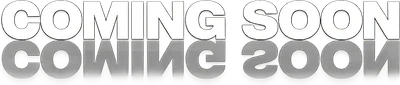
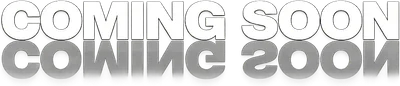
Add Downloads page and R2 download function
Introduce a secure Downloads feature: add downloads data (src/data/downloads.ts), UI component (src/components/portfolio/Downloads.tsx) and page (src/pages/DownloadsPage.tsx). Wire lazy route and import in App.tsx and add a footer link. Add a Cloudflare Pages function functions/download/[fileId].ts that serves R2 files using an allowlist, plus wrangler.toml R2 binding. Also update scripts/optimize-coming-soon.js and replace coming-soon assets, and tweak Projects image sizing class.

diff --git a/src/components/portfolio/Downloads.tsx b/src/components/portfolio/Downloads.tsx
@@ -1,0 +1,98 @@
+import { Download, FileArchive } from 'lucide-react';
+import { downloads } from '@/data/downloads';
+
+export const Downloads = () => {
+  if (downloads.length === 0) {
+    return null;
+  }
+
+  return (
+    <section id="downloads" className="py-12 sm:py-16 md:py-[4.4rem] bg-[#050506]">
+      <div className="max-w-7xl mx-auto px-4 sm:px-6">
+        {/* Header */}
+        <div className="flex flex-col sm:flex-row items-start sm:items-end justify-between gap-6 sm:gap-0 mb-12 sm:mb-20 pb-8 sm:pb-12 border-b border-white/10 relative">
+          <div className="absolute -top-20 -left-20 w-64 h-64 bg-white/5 rounded-full blur-3xl opacity-50 pointer-events-none" />
+          <div className="relative z-10">
+            <span id="downloads_title" className="text-sm font-mono-display text-white/40 mb-6 block tracking-widest uppercase">
+              SYSTEM_SECURE_DOWNLOADS // 006
+            </span>
+            <h1 className="text-5xl sm:text-6xl md:text-7xl lg:text-[7rem] leading-[0.9] font-black text-white brutalist-text tracking-tighter">
+              ASSETS
+              <br />
+              <span className="text-white/20">& ARCHIVES</span>
+            </h1>
+          </div>
+          <div className="sm:text-right relative z-10 mt-6 sm:mt-0">
+            <p className="text-base sm:text-lg text-white/50 max-w-sm font-light leading-relaxed">
+              Direct access to project source codes, early prototypes, and other development resources.
+            </p>
+            <div className="mt-6 flex sm:justify-end gap-2">
+              <span className="px-3 py-1.5 bg-white/5 border border-white/10 text-[10px] text-white/60 font-mono-display uppercase tracking-widest backdrop-blur-sm">
+                {downloads.length} FILES AVAILABLE
+              </span>
+            </div>
+          </div>
+        </div>
+
+        {/* Downloads Grid */}
+        <div className="grid sm:grid-cols-2 lg:grid-cols-3 gap-4 sm:gap-px sm:bg-white/10 sm:border sm:border-white/10">
+          {downloads.map((item, index) => (
+            <div
+              key={item.id}
+              className="modern-card sheen-hover group bg-[#050506] border border-white/10 sm:border-0 p-6 sm:p-8 hover:bg-white/[0.02] transition-all duration-500 hover:scale-[1.02]"
+              style={{ animationDelay: `${index * 90}ms` }}
+            >
+              {/* Icon / Type */}
+              <div className="mb-8 overflow-hidden border border-white/10 bg-black/40 h-48 flex items-center justify-center relative group-hover:border-white/20 transition-all duration-500 group-hover:bg-black/20">
+                 <div className="absolute inset-0 bg-gradient-to-br from-white/5 to-transparent opacity-0 group-hover:opacity-100 transition-opacity duration-500" />
+                 <FileArchive className="w-16 h-16 text-white/20 group-hover:text-white group-hover:scale-110 transition-all duration-500 relative z-10 drop-shadow-2xl" />
+              </div>
+
+              {/* Number */}
+              <span className="text-xs font-mono-display text-white/30 mb-6 block">
+                {String(index + 1).padStart(2, '0')}
+              </span>
+
+              {/* Status/Size */}
+              <div className="flex items-center gap-3 mb-6">
+                <span className="px-2 py-1 bg-white/5 border border-white/10 text-[10px] font-mono-display text-white/60 tracking-widest uppercase">
+                  {item.fileType}
+                </span>
+                <span className="text-[10px] font-mono-display text-white/40 tracking-wider uppercase">
+                  {item.size}
+                </span>
+              </div>
+
+              {/* Title */}
+              <h3 className="text-2xl font-black text-white mb-2 group-hover:text-white/80 transition-colors">
+                {item.name}
+              </h3>
+
+              {/* Description */}
+              <p className="text-sm text-white/60 leading-relaxed mb-8 h-10 line-clamp-2">
+                {item.description}
+              </p>
+
+              {/* Action Button */}
+              <a
+                href={`/download/${item.fileId}`}
+                className="inline-flex items-center gap-3 mb-6 text-sm font-bold text-white/70 hover:text-white transition-colors group/btn"
+                download
+              >
+                <div className="w-8 h-8 rounded-full border border-white/20 flex items-center justify-center group-hover/btn:border-white group-hover/btn:bg-white group-hover/btn:text-black transition-all">
+                  <Download className="w-4 h-4" />
+                </div>
+                Download File
+              </a>
+
+              {/* Bottom */}
+              <div className="pt-6 border-t border-white/5 flex items-center justify-between mt-auto">
+                <span className="text-xs text-white/30">Secure Download</span>
+              </div>
+            </div>
+          ))}
+        </div>
+      </div>
+    </section>
+  );
+};

diff --git a/src/components/portfolio/Navigation.tsx b/src/components/portfolio/Navigation.tsx
@@ -1,10 +1,14 @@
 import { useState, useEffect } from 'react';
 import { Menu, X } from 'lucide-react';
-import { Link } from 'react-router-dom';
+import { Link, useLocation } from 'react-router-dom';
 
 export const Navigation = () => {
   const [isScrolled, setIsScrolled] = useState(false);
   const [isMobileMenuOpen, setIsMobileMenuOpen] = useState(false);
+  const { pathname } = useLocation();
+  const onHomePage = pathname === '/';
+  
+  const getHref = (hash: string) => onHomePage ? hash : `/${hash}`;
 
   useEffect(() => {
     let rafId: number | null = null;
@@ -50,7 +54,7 @@ export const Navigation = () => {
       <div className="max-w-7xl mx-auto px-[clamp(1rem,2.2vw,1.5rem)]">
         <div className="flex items-center justify-between h-[clamp(3.75rem,5.4vw,5rem)]">
           {/* Logo */}
-          <a href="#hero" className="inline-flex items-center gap-2.5 leading-none">
+          <a href={getHref('#hero')} className="inline-flex items-center gap-2.5 leading-none">
             <img src="/logo-mark.svg" alt="PG logo" width="65" height="65" className="h-11 w-11 rounded-md" />
             <span className="mt-1 text-[9px] font-mono-display text-white/45 tracking-[0.08em]">
               SYSTEM_ONLINE // IN DEVELOPMENT
@@ -62,7 +66,7 @@ export const Navigation = () => {
             {navItems.map((item) => (
               <a
                 key={item.href}
-                href={item.href}
+                href={getHref(item.href)}
                 data-cursor-preview={`Go To ${item.label.replace(/_/g, " ")}`}
                 className="nav-link-animated relative inline-block text-xs font-mono-display text-white/50 hover:text-white transition-colors tracking-wider before:absolute before:-inset-x-2 before:-inset-y-2 before:content-['']"
               >
@@ -100,7 +104,7 @@ export const Navigation = () => {
             {navItems.map((item) => (
               <a
                 key={item.href}
-                href={item.href}
+                href={getHref(item.href)}
                 data-cursor-preview={`Go To ${item.label.replace(/_/g, " ")}`}
                 className="relative inline-block py-2 text-sm font-mono-display text-white/50 transition-colors hover:text-white before:absolute before:-inset-x-2 before:-inset-y-2 before:content-['']"
                 onClick={() => setIsMobileMenuOpen(false)}

diff --git a/functions/download/[fileId].ts b/functions/download/[fileId].ts
@@ -1,0 +1,44 @@
+import { downloads } from '../../src/data/downloads';
+
+interface Env {
+  PORTFOLIO_FILES: R2Bucket;
+}
+
+export const onRequest: PagesFunction<Env> = async (context) => {
+  const { request, env, params } = context;
+  const fileId = params.fileId as string;
+
+  if (request.method !== 'GET') {
+    return new Response('Method Not Allowed', { status: 405 });
+  }
+
+  // Find the file in our allowlist
+  const downloadItem = downloads.find((item) => item.fileId === fileId);
+
+  if (!downloadItem) {
+    return new Response('File not found in allowlist', { status: 404 });
+  }
+
+  const objectKey = downloadItem.objectKey;
+
+  try {
+    const object = await env.PORTFOLIO_FILES.get(objectKey);
+
+    if (object === null) {
+      return new Response('File not found in bucket', { status: 404 });
+    }
+
+    const headers = new Headers();
+    object.writeHttpMetadata(headers);
+    headers.set('etag', object.httpEtag);
+    headers.set('Content-Disposition', `attachment; filename="${downloadItem.objectKey}"`);
+    headers.set('Content-Length', object.size.toString());
+
+    return new Response(object.body, {
+      headers,
+    });
+  } catch (error) {
+    console.error('Error fetching file from R2:', error);
+    return new Response('Internal Server Error', { status: 500 });
+  }
+};

diff --git a/src/components/portfolio/Footer.tsx b/src/components/portfolio/Footer.tsx
@@ -1,4 +1,4 @@
-import { Globe, Github, Heart, Mail, Gamepad2, Linkedin, Palette, Send } from 'lucide-react';
+import { Globe, Github, Heart, Mail, Gamepad2, Linkedin, Palette, Send, ExternalLink } from 'lucide-react';
 import { FaXTwitter } from 'react-icons/fa6';
 import { useLocation } from 'react-router-dom';
 
@@ -93,6 +93,16 @@ export const Footer = () => {
                   className="text-white/40 hover:text-white transition-colors"
                 >
                   Blog Page
+                </a>
+              </li>
+              <li className="pt-2 mt-2 border-t border-white/10">
+                <a
+                  href="/downloads"
+                  data-cursor-preview="Go To Downloads"
+                  className="flex items-center gap-1.5 text-white/40 hover:text-white transition-colors"
+                >
+                  Downloads Page
+                  <ExternalLink className="w-3.5 h-3.5" />
                 </a>
               </li>
             </ul>

diff --git a/src/data/downloads.ts b/src/data/downloads.ts
@@ -1,0 +1,30 @@
+export interface DownloadItem {
+  id: string;
+  fileId: string;
+  objectKey: string;
+  name: string;
+  description: string;
+  fileType: string;
+  size: string;
+}
+
+export const downloads: DownloadItem[] = [
+  {
+    id: "1",
+    fileId: "portfolio-source",
+    objectKey: "source-code.zip",
+    name: "Portfolio Source Code",
+    description: "The complete source code of this portfolio built with React and Tailwind CSS.",
+    fileType: "ZIP Archive",
+    size: "1.2MB"
+  },
+  {
+    id: "2",
+    fileId: "game-prototype-v1",
+    objectKey: "game-prototype-v1.zip",
+    name: "Game Prototype V1",
+    description: "An early playable prototype of my upcoming game.",
+    fileType: "ZIP Archive",
+    size: "450MB"
+  }
+];

diff --git a/src/App.tsx b/src/App.tsx
@@ -11,6 +11,7 @@ import Index from "./pages/Index";
 
 // Lazy load non-critical pages
 const BlogPage = lazy(() => import("./pages/BlogPage"));
+const DownloadsPage = lazy(() => import("./pages/DownloadsPage"));
 const NotFound = lazy(() => import("./pages/NotFound"));
 
 const queryClient = new QueryClient();
@@ -253,6 +254,7 @@ const App = () => {
             <Routes>
               <Route path="/" element={<Index />} />
               <Route path="/blog" element={<BlogPage />} />
+              <Route path="/downloads" element={<DownloadsPage />} />
               {/* ADD ALL CUSTOM ROUTES ABOVE THE CATCH-ALL "*" ROUTE */}
               <Route path="*" element={<NotFound />} />
             </Routes>

diff --git a/src/pages/DownloadsPage.tsx b/src/pages/DownloadsPage.tsx
@@ -1,0 +1,23 @@
+import { CustomCursor } from '@/components/portfolio/CustomCursor';
+import { Navigation } from '@/components/portfolio/Navigation';
+import { Footer } from '@/components/portfolio/Footer';
+import { ScrollProgress } from '@/components/portfolio/ScrollProgress';
+import { Downloads } from '@/components/portfolio/Downloads';
+
+const DownloadsPage = () => {
+  return (
+    <main className="min-h-screen bg-[#050506] particle-bg">
+      <CustomCursor />
+      <ScrollProgress />
+      <Navigation />
+
+      <div className="pt-24 sm:pt-32">
+        <Downloads />
+      </div>
+
+      <Footer />
+    </main>
+  );
+};
+
+export default DownloadsPage;

diff --git a/scripts/optimize-coming-soon.js b/scripts/optimize-coming-soon.js
@@ -24,9 +24,9 @@ const OUTDIR = path.resolve(__dirname, '../public');
 const WIDTHS = [400, 800];
 
 async function run() {
-  // First pass: trim transparent/white borders and get tight bounds
+  // First pass: extract the exact bounding box for the text to match 2.5:1 ratio
   const base = sharp(SRC);
-  const trimmed = base.trim({ threshold: 10 }); // trim near-white & transparent edges
+  const trimmed = base.extract({ left: 35, top: 369, width: 960, height: 206 });
 
   const meta = await trimmed.clone().metadata();
   console.log(`Trimmed size: ${meta.width}x${meta.height}`);

diff --git a/src/components/portfolio/Projects.tsx b/src/components/portfolio/Projects.tsx
@@ -94,7 +94,7 @@ export const Projects = () => {
                     alt={project.title}
                     width="400"
                     height="160"
-                    className="card-media-zoom h-40 w-full object-cover object-center opacity-90"
+                    className="card-media-zoom h-40 w-full object-contain object-center opacity-90"
                     loading="lazy"
                     decoding="async"
                   />
